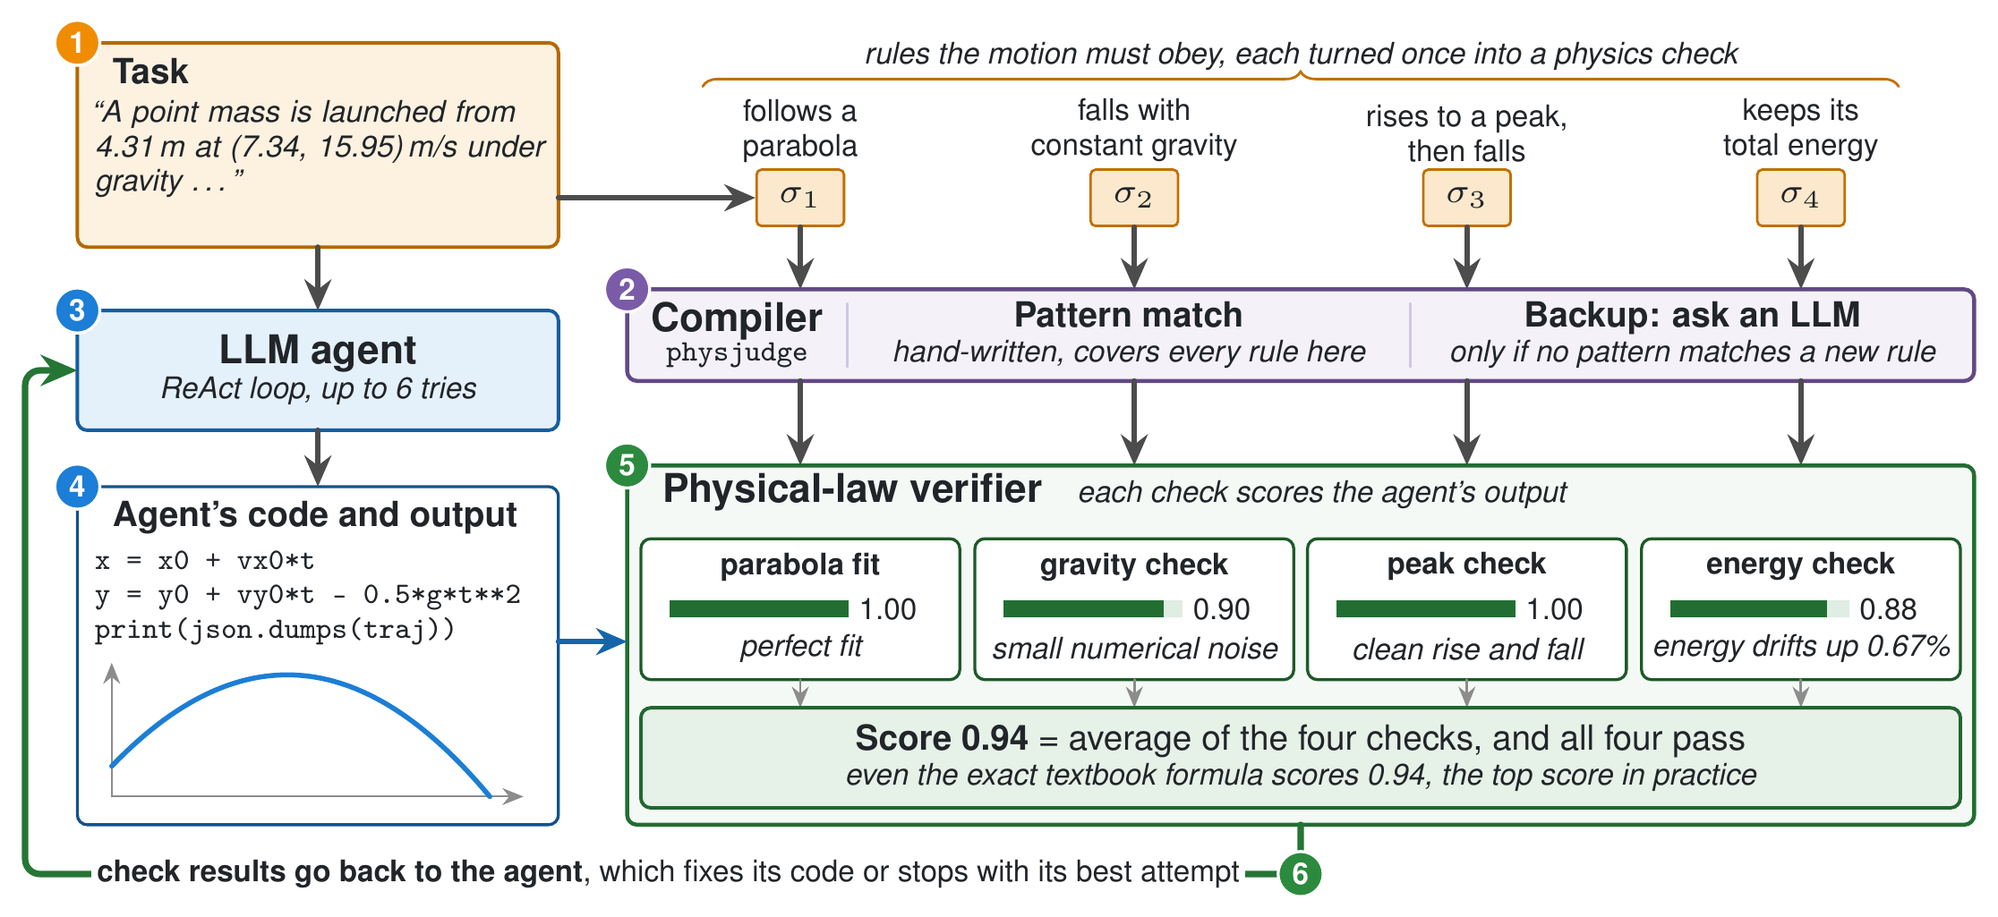
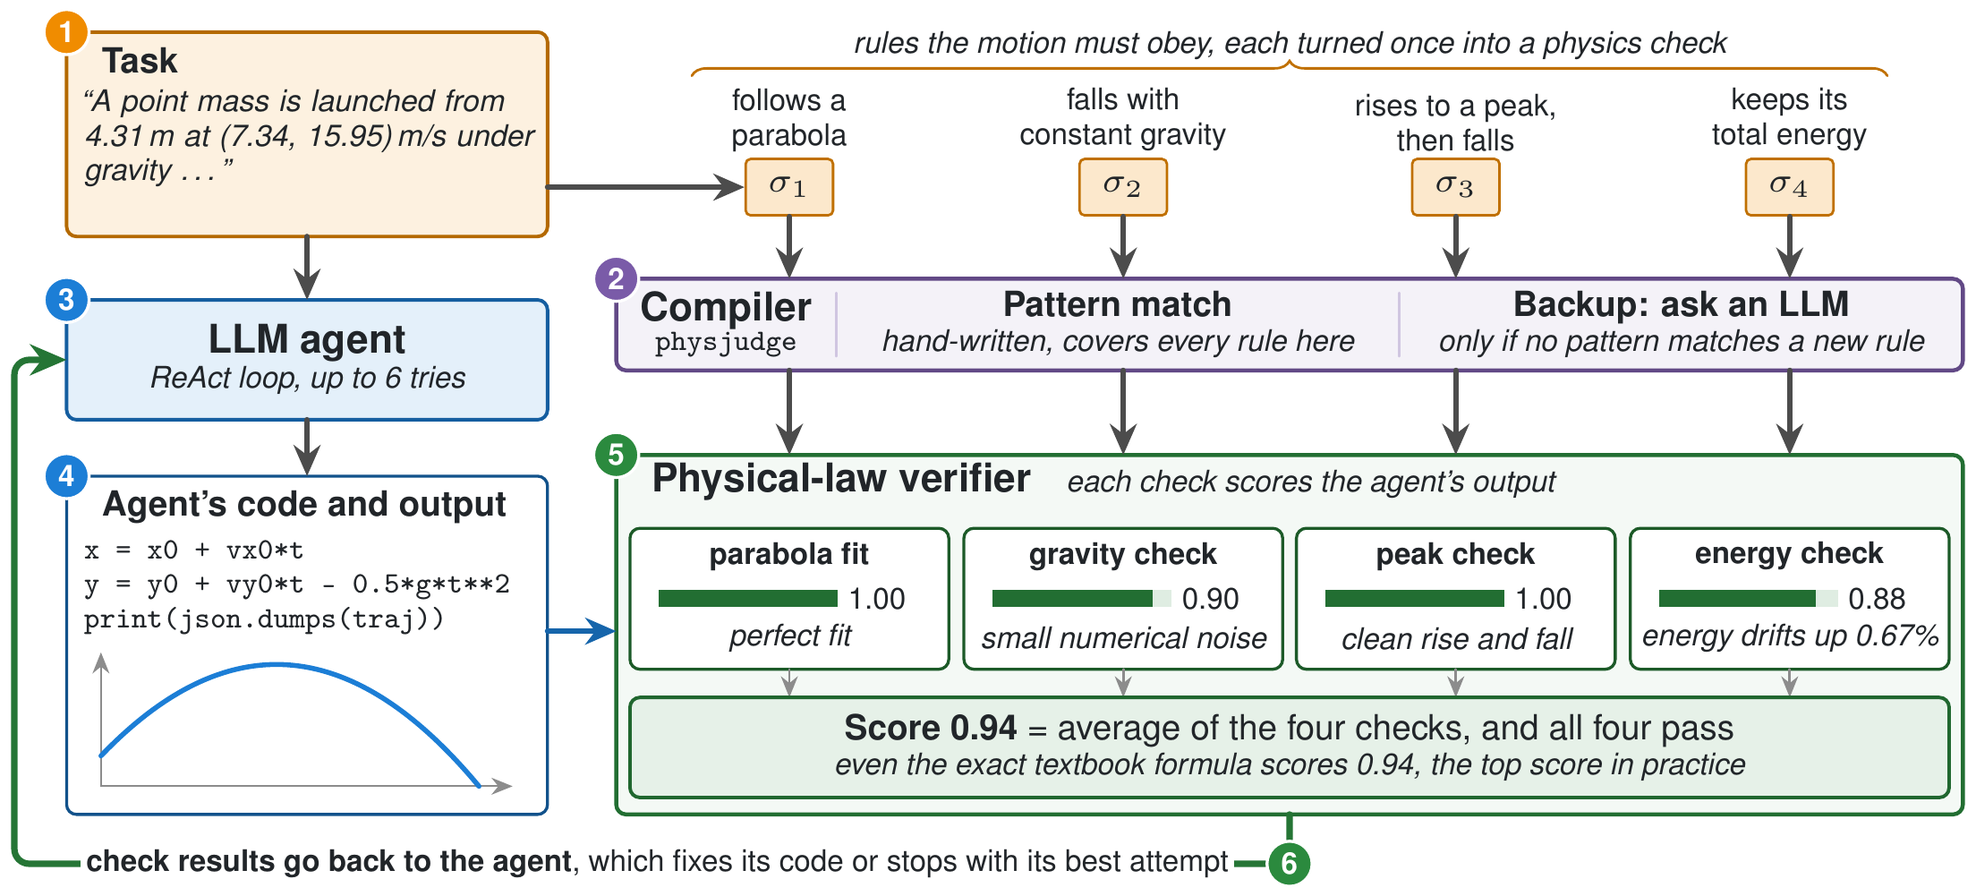
Update page to match camera-ready: title, abstract, figures, captions

Changed region(s): [[0.0, 0.0, 1.0, 0.991], [0.1562, 0.7433, 0.2188, 0.8052], [0.0938, 0.7433, 0.125, 0.7742]]

diff --git a/index.html b/index.html
@@ -3,10 +3,10 @@
 <head>
   <meta charset="utf-8">
   <meta name="viewport" content="width=device-width, initial-scale=1">
-  <title>PhysAgentGym: Free Physical-Law Verifiers</title>
+  <title>PhysAgentGym: Annotation-Free Physical-Law Verifiers</title>
   <meta name="description" content="PhysAgentGym: physical laws score a code-writing agent's trajectory with no answer key. Training Qwen2.5-Coder 7B on 491 verifier-selected rollouts lifts it from 0.668 to 0.942, on par with Claude Sonnet 4.5.">
-  <meta property="og:title" content="PhysAgentGym: Free Physical-Law Verifiers for Training Small Code-Reasoning Agents">
-  <meta property="og:description" content="Physical laws as free rewards for code-writing agents. NeurIPS 2026.">
+  <meta property="og:title" content="PhysAgentGym: Annotation-Free Physical-Law Verifiers for Training Small Code-Reasoning Agents">
+  <meta property="og:description" content="Physical laws as annotation-free verifiers for code-writing agents. NeurIPS 2026.">
   <meta property="og:image" content="./static/images/fig_teaser.png">
   <meta name="twitter:card" content="summary_large_image">
   <link rel="preconnect" href="https://fonts.googleapis.com">
@@ -33,7 +33,7 @@
 <header class="hero" id="top">
   <div class="wrap">
     <p class="venue">NeurIPS 2026</p>
-    <h1 class="title"><span class="grad">PhysAgentGym:</span><br>Free Physical-Law Verifiers for Training Small Code-Reasoning Agents</h1>
+    <h1 class="title"><span class="grad">PhysAgentGym:</span><br>Annotation-Free Physical-Law Verifiers for Training Small Code-Reasoning Agents</h1>
 
     <p class="authors">Lama Moukheiber</p>
     <p class="affil"><img class="affil-logo" src="./static/images/gt_logo.svg" alt="Georgia Institute of Technology"></p>
@@ -47,9 +47,10 @@
     </div>
 
     <figure class="card figure hero-figure wide" style="max-width: 980px">
-      <img src="./static/images/fig_teaser.png" alt="Four panels: a scenario, an LLM agent that writes and runs code, a physical-law verifier that scores the trajectory, and bar charts of small models before and after training.">
-      <figcaption>An LLM agent writes code that simulates a scenario. Physical laws score the resulting trajectory with no answer key,
-        and the best-scoring rollouts fine-tune small models close to the frontier.</figcaption>
+      <img src="./static/images/fig_teaser.png?v=3" alt="Four panels: a scenario, an LLM agent that writes and runs code, a physical-law verifier that scores the trajectory, and bar charts of small models before and after training.">
+      <figcaption>PhysAgentGym verifies with physical laws instead of expert labels, unit tests, or reward models. An LLM agent writes
+        code that simulates a scenario, the laws score its trajectory with no answer key, and fine-tuning on the verified rollouts brings
+        a 7B model to the frontier.</figcaption>
     </figure>
 
     <div class="summary">
@@ -81,15 +82,21 @@
   <div class="wrap narrow">
     <p class="kicker">Abstract</p>
     <div class="abstract">
-      <p>Code-reasoning agents are usually trained with costly verifiers: expert annotation, hand-written unit tests, or learned reward
-        models. We show that where correctness follows closed-form physical laws, the laws themselves provide dense, automatic rewards with
-        no per-task answer key. We build <strong>PhysAgentGym</strong>, a code-execution gym for single-body classical mechanics in which a
-        language model reads a physics scenario, writes Python that simulates it, and is scored by a verifier that turns natural-language
-        standards into checks on the emitted trajectory. Audited against withheld exact solutions, all 281 test episodes that the verifier
-        scored at least 0.9 are physically correct. Fine-tuning Qwen2.5-Coder on 491 rollouts selected by the verifier lifts the 7B model
-        from 0.67 to 0.94, on par with Claude Sonnet 4.5, including on a held-out phenomenon. The
-        1.5B and 3B models rise from near zero to 0.70 and 0.89. Frontier models already reach the highest score the metric gives in
-        practice, so the benchmark's value lies in measuring how small models learn, and reliable training needs at least 3B parameters.</p>
+      <p>Code-reasoning agents trained from rollouts rely on verifiers, such as expert annotation, hand-written unit tests, or learned
+        reward models, each of which needs human effort for every new domain. However, in domains governed by closed-form physical laws,
+        whether the laws themselves can serve as automatic verifiers remains unclear. In this work, we seek to understand whether physical
+        laws can score an agent's simulation without annotation, whether these scores reflect correct physics, and whether they can train
+        small models. We propose <strong>PhysAgentGym</strong>, an agentic code-execution gym for classical mechanics of point masses, in
+        which a language model writes a Python program that simulates a physics scenario and a rule-based verifier compiles
+        natural-language standards into checks on the emitted trajectory. The scores are annotation-free, since physical laws supply the
+        ground truth and neither the agent nor the verifier reads the exact solution. An audit against these withheld solutions shows that
+        every high-scoring test episode of Claude Sonnet 4.5, Claude Opus 4.8, GPT&#8209;5, and our trained 7B model is physically correct.
+        Fine-tuning Qwen2.5-Coder at 1.5B, 3B, and 7B on Claude Sonnet 4.5 rollouts selected by the verifier brings the 7B model
+        statistically on par with Sonnet 4.5 and GPT&#8209;5. It matches Sonnet 4.5 on held-out Circular Motion and comes close on held-out
+        Damping, a phenomenon absent from training. Training is reliable from 3B up, selecting training data by score, not only by whether
+        every check passes, helps the 1.5B model, and frontier models already reach the highest score the verifier gives in practice. On
+        harder composite tasks with drag, orbits, and driven and coupled oscillators, the exact solution earns nearly the full score, the
+        verifier separates correct from wrong physics, and Claude Opus 4.8 scores measurably above Sonnet 4.5.</p>
     </div>
   </div>
 </section>
@@ -102,10 +109,10 @@
       simulates the scenario, and a verifier checks the resulting trajectory against each rule.</p>
 
     <figure class="card figure wide">
-      <img src="./static/images/fig_overview.png" alt="Diagram of one test episode, a thrown point mass: the task and its four rules, the compiler, the agent's code and trajectory, and the four physics checks that score it.">
+      <img src="./static/images/fig_overview.png?v=3" alt="Diagram of one test episode, a thrown point mass: the task and its four rules, the compiler, the agent's code and trajectory, and the four physics checks that score it.">
       <figcaption>How PhysAgentGym scores one real test episode, a thrown point mass. Each rule of the task is turned once into a physics
         check, by a hand-written pattern or, when none matches, by an LLM. The agent's code produces a trajectory that every check scores,
-        and the agent can revise its code using the results. Numbers give the order of the steps.</figcaption>
+        and the agent can revise its code using the results (numbers give the order of the steps).</figcaption>
     </figure>
 
     <div class="steps four">
@@ -124,22 +131,22 @@
       <div class="step-card c-green">
         <div class="step-num">3</div>
         <h3>Verifier</h3>
-        <p>Each rule becomes one of 19 physics checks, such as a parabola fit or an energy check. Each check scores the trajectory from 0 to
-          1. The exact solution stays hidden from the agent and the verifier.</p>
+        <p>Each rule becomes one of 19 physics checks, such as a parabola fit or an energy check, that scores the trajectory from 0 to 1,
+          while the exact solution stays hidden from the agent and the verifier.</p>
       </div>
       <div class="step-card c-purple">
         <div class="step-num">4</div>
         <h3>Training</h3>
-        <p>Claude Sonnet 4.5 rollouts that pass every check with a mean score of at least 0.85 give 491 conversations. QLoRA fine-tunes
-          Qwen2.5-Coder on them in 11 to 25 minutes on one GPU.</p>
+        <p>Claude Sonnet 4.5 rollouts that pass every check with a mean score of at least 0.85 give 491 conversations, on which QLoRA
+          fine-tunes Qwen2.5-Coder at 1.5B, 3B, and 7B.</p>
       </div>
     </div>
 
     <div class="chips">
-      <span class="chip"><i class="fas fa-atom"></i>Single-body classical mechanics</span>
+      <span class="chip"><i class="fas fa-atom"></i>Classical mechanics of point masses</span>
       <span class="chip"><i class="fas fa-layer-group"></i>1,320 generated tasks</span>
-      <span class="chip"><i class="fas fa-shapes"></i>4 subcategories, 10 regimes</span>
-      <span class="chip"><i class="fas fa-file-lines"></i>30 rule templates</span>
+      <span class="chip"><i class="fas fa-shapes"></i>4 subcategories, 10 types of motion</span>
+      <span class="chip"><i class="fas fa-file-lines"></i>30 distinct standards</span>
       <span class="chip"><i class="fas fa-key"></i>No answer key at scoring time</span>
     </div>
   </div>
@@ -148,16 +155,15 @@
 <section class="section" id="results">
   <div class="wrap">
     <p class="kicker center">Results</p>
-    <h2 class="center">Small models learn from the verifier alone</h2>
+    <h2 class="center">Small models learn from the verifier&#8217;s signal</h2>
     <p class="lead center narrow-text">Untrained Qwen2.5-Coder scores 0.000, 0.011 and 0.668 at 1.5B, 3B and 7B. After training on the 491
       verifier-selected rollouts it scores 0.702, 0.888 and 0.942. The 7B model is statistically on par with Claude Sonnet 4.5, and gains
       48.7 points on Damping, a phenomenon absent from training.</p>
 
     <div class="card tables" style="padding: 18px 22px">
       <h3>Mean verifier score on the 120 test tasks</h3>
-      <p class="fine" style="margin-top:0">30 tasks per subcategory, failures scored 0, 95% bootstrap interval on the aggregate. Circular
-        Motion is near out of distribution and Damping is far out of distribution. Green rows are the main runs.
-        <sup>†</sup>Run through a headless CLI harness, the other frontier rows use the provider API.</p>
+      <p class="fine" style="margin-top:0">30 tasks per subcategory, episodes with no parseable action scored 0, 95% bootstrap interval on
+        the aggregate. Circular Motion is near out of distribution and Damping is far out of distribution. Green rows are the main runs.</p>
       <div class="table-wrapper"><table class="results-table">
 <thead>
 <tr><th>Model</th><th>PE-KE</th><th>Linear</th><th>Circular</th><th>Damping</th><th>Aggregate [95% CI]</th></tr>
@@ -167,7 +173,7 @@
 <tr><td>Claude Sonnet 4.5</td><td>0.959</td><td>0.971</td><td>0.911</td><td>0.935</td><td>0.944 [0.930, 0.957]</td></tr>
 <tr><td>GPT-5</td><td>0.959</td><td>0.970</td><td>0.885</td><td>0.935</td><td>0.937 [0.916, 0.955]</td></tr>
 <tr><td>GPT-5, high reasoning</td><td>0.959</td><td>0.970</td><td>0.911</td><td>0.935</td><td>0.944 [0.931, 0.957]</td></tr>
-<tr><td>Claude Opus 4.8<sup>†</sup></td><td>0.959</td><td>0.970</td><td>0.911</td><td>0.935</td><td>0.944 [0.931, 0.957]</td></tr>
+<tr><td>Claude Opus 4.8</td><td>0.959</td><td>0.970</td><td>0.911</td><td>0.935</td><td>0.944 [0.931, 0.957]</td></tr>
 <tr class="group-row"><td colspan="6">Qwen2.5-Coder-Instruct, zero-shot</td></tr>
 <tr><td>1.5B</td><td>0.000</td><td>0.000</td><td>0.000</td><td>0.000</td><td>0.000 [0.000, 0.000]</td></tr>
 <tr><td>3B</td><td>0.000</td><td>0.000</td><td>0.045</td><td>0.000</td><td>0.011 [0.000, 0.028]</td></tr>
@@ -179,7 +185,7 @@
 <tr><td>3B, pass-only filter</td><td>0.915</td><td>0.971</td><td>0.881</td><td>0.750</td><td>0.879 [0.842, 0.912]</td></tr>
 <tr><td>7B, seed 1</td><td>0.930</td><td>0.971</td><td>0.919</td><td>0.935</td><td>0.939 [0.924, 0.953]</td></tr>
 <tr><td>7B, pass-only filter</td><td>0.945</td><td>0.971</td><td>0.911</td><td>0.935</td><td>0.941 [0.926, 0.954]</td></tr>
-<tr class="group-row"><td colspan="6">Qwen2.5-Coder-Instruct trained on verifier-approved rollouts, main runs (ours)</td></tr>
+<tr class="group-row"><td colspan="6">Qwen2.5-Coder-Instruct trained on verifier-selected rollouts, main runs (ours)</td></tr>
 <tr class="ours-row"><td>1.5B</td><td>0.928</td><td>0.871</td><td>0.814</td><td>0.197</td><td><strong>0.702</strong> [0.629, 0.778]</td></tr>
 <tr class="ours-row"><td>3B</td><td>0.902</td><td>0.971</td><td>0.911</td><td>0.769</td><td><strong>0.888</strong> [0.858, 0.916]</td></tr>
 <tr class="ours-row"><td>7B</td><td>0.959</td><td>0.971</td><td>0.911</td><td>0.927</td><td><strong>0.942</strong> [0.928, 0.956]</td></tr>
@@ -188,22 +194,22 @@
     </div>
 
     <figure class="card figure wide">
-      <img src="./static/images/fig_scale.png" alt="Three charts: (a) mean score by model size per subcategory, zero-shot and trained, against the frontier line, (b) verifier score of every audited test episode, split into physically correct and wrong, (c) gain from the stricter training-data filter at 1.5B, 3B and 7B.">
+      <img src="./static/images/fig_scale.png?v=3" alt="Three charts: (a) mean score by model size per subcategory, zero-shot and trained, against the frontier line, (b) verifier score of every audited test episode, split into physically correct and wrong, (c) gain from the stricter training-data filter at 1.5B, 3B and 7B.">
       <figcaption><strong>(a)</strong> Mean score by model size on each subcategory with 95% bootstrap intervals. The dashed line is the
         mean of the four frontier models, and the blue number is the 7B gain over zero-shot in points. <strong>(b)</strong> Verifier score
-        for every test episode of Claude Sonnet 4.5, GPT-5 and our 7B model, 359 in all, split by whether the trajectory is within 5% of the
-        exact solution. <strong>(c)</strong> Aggregate gain from a stricter training-data filter, which keeps rollouts that pass every check
-        and score at least 0.85, over keeping every rollout that passes all checks.</figcaption>
+        of every test episode of Claude Sonnet 4.5, GPT-5, and our 7B model (359 episodes), split by whether the trajectory is within 5% of
+        the exact solution. <strong>(c)</strong> Aggregate gain from the combined training-data filter over the pass-only
+        filter.</figcaption>
     </figure>
 
     <div class="grid3">
-      <div class="mini-card"><h3>A tie with the teacher</h3><p>On the same 120 tasks the 7B model's scores differ from Sonnet's by 0.002 on
-        average, and an equivalence test shows the two agree to within 0.01. The 7B model learns from Sonnet's own rollouts, so a tie is
-        the expected best.</p></div>
-      <div class="mini-card"><h3>3B is the reliable floor</h3><p>Below 3B, models often stop producing valid actions on held-out tasks and
-        training seeds disagree. The two 3B seeds agree to 0.7 points, and from 3B up training is stable across seeds.</p></div>
-      <div class="mini-card"><h3>The score picks better data</h3><p>Keeping only rollouts that also score at least 0.85 beats keeping every
-        rollout that passes, at every size: 12.7, 0.9 and 0.1 points at 1.5B, 3B and 7B.</p></div>
+      <div class="mini-card"><h3>The 7B model ties with Sonnet 4.5</h3><p>On the same 120 tasks the 7B model's scores differ from
+        Sonnet's by 0.002 on average, and an equivalence test shows the two agree to within 0.01.</p></div>
+      <div class="mini-card"><h3>Training is reliable from 3B up</h3><p>At 1.5B the two training seeds differ by 3.6 points, mostly on
+        Damping, where the 1.5B models produce a parseable action in only 3 to 20 of 30 episodes, whereas the two 3B seeds differ by 0.7
+        points.</p></div>
+      <div class="mini-card"><h3>Choosing data by score helps at 1.5B</h3><p>Keeping only rollouts that also score at least 0.85 adds 12.7
+        points at 1.5B, while the gains at 3B and 7B, 0.9 and 0.1 points, are not statistically significant.</p></div>
     </div>
   </div>
 </section>
@@ -211,11 +217,11 @@
 <section class="section alt" id="audit">
   <div class="wrap">
     <p class="kicker center">Verifier audit</p>
-    <h2 class="center">Every high score is a correct trajectory</h2>
-    <p class="lead center narrow-text">Two frontier models agreeing shows the verifier is consistent, not that it is correct. So we checked it
-      against the exact solutions, which neither the agent nor the verifier sees. We re-ran the best code of all 360 test episodes of Claude
-      Sonnet 4.5, GPT-5 and our 7B model, and called a trajectory correct if its error is below 5%. One GPT-5 episode had no runnable code,
-      which leaves 359.</p>
+    <h2 class="center">Every audited high score is a correct trajectory</h2>
+    <p class="lead center narrow-text">Two frontier models agreeing shows the verifier is consistent, not that it is correct, so we checked
+      it against the exact solutions, which neither the agent nor the verifier sees. For the 359 test episodes of Claude Sonnet 4.5, GPT-5,
+      and our 7B model that contain a parseable action, we re-ran the best-scoring code and called a trajectory physically correct if its
+      error is below 5% and it covers at least 95% of the solution's duration.</p>
 
     <div class="audit">
       <div class="mini-card c-green">
@@ -230,16 +236,16 @@
       </div>
       <div class="mini-card c-orange">
         <p class="big">51 of 51</p>
-        <h3>Errors only run one way</h3>
+        <h3>Low scores do not always mean wrong physics</h3>
         <p>All 51 frontier episodes scoring below 0.9 are still correct. Of the 27 such 7B episodes, 7 are wrong, and all 7 score below 0.9.</p>
       </div>
     </div>
 
     <div class="callout green narrow-text">
       <i class="fas fa-circle-info"></i>
-      <p>When the verifier errs, it gives too little credit, not too much. The low scores on correct trajectories come mostly from the
-        smoothness rule, which marks down Ferris-wheel and constant-acceleration motion, and from the damping rules. These tolerances cap
-        scores near 0.94 and are the first part of the verifier to improve.</p>
+      <p>The low scores on correct trajectories come mostly from the smoothness rule, which marks down Ferris-wheel and
+        constant-acceleration motion, and from the damping rules, so these tolerances, not the agents, cap scores near 0.94. Beyond the
+        audited models, 21 of the 794 high-scoring trajectories of the other trained runs (under 3%) differ from the exact solution.</p>
     </div>
   </div>
 </section>
@@ -256,7 +262,7 @@
     <div class="card tables" style="padding: 18px 22px">
       <div class="table-wrapper"><table class="results-table">
 <thead>
-<tr><th rowspan="2">Subcategory</th><th colspan="3">Verifier score on known answers</th><th colspan="2">Frontier models<sup>†</sup></th></tr>
+<tr><th rowspan="2">Subcategory</th><th colspan="3">Verifier score on known answers</th><th colspan="2">Frontier models</th></tr>
 <tr><th>Exact solution</th><th>Numerical solver</th><th>Wrong physics</th><th>Sonnet 4.5</th><th>Opus 4.8</th></tr>
 </thead>
 <tbody>
@@ -268,17 +274,17 @@
 </tbody>
 </table></div>
       <p class="fine">30 test tasks each. The numerical solver is SciPy's standard solver at default settings, with its largest error in
-        brackets. Wrong-physics answers drop or distort one term. <sup>†</sup>Both run through the CLI harness, so Sonnet here is not
-        directly comparable to the main table.</p>
+        brackets. Wrong-physics answers drop or distort one term.</p>
     </div>
 
     <div class="grid3">
-      <div class="mini-card"><h3>A perfect answer earns nearly full marks</h3><p>The exact solution scores 0.989 to 0.998, against about
-        0.94 on the original four subcategories.</p></div>
-      <div class="mini-card"><h3>Wrong physics is caught</h3><p>Every deliberately wrong solution tested, such as ignoring drag or using a
-        crude integrator, scores 0.75 or less.</p></div>
-      <div class="mini-card"><h3>Frontier models solve them too</h3><p>Sonnet 4.5 scores 0.990 and Opus 4.8 scores 0.995. All 240
-        submissions are physically correct and score at least 0.9. Opus leads by 0.005 in a paired bootstrap.</p></div>
+      <div class="mini-card"><h3>A correct answer earns nearly the full score</h3><p>The exact solution scores 0.989 to 0.998, against
+        about 0.94 on the original four subcategories.</p></div>
+      <div class="mini-card"><h3>Wrong physics scores low</h3><p>Every wrong solution we constructed, such as one that ignores drag or uses
+        a crude integrator, scores 0.76 or less.</p></div>
+      <div class="mini-card"><h3>Frontier models solve them too</h3><p>Sonnet 4.5 scores 0.990 and Opus 4.8 scores 0.995, and all 240
+        submissions are physically correct and score at least 0.9. Opus leads by 0.005 in a paired bootstrap, a measurable gap, while the
+        two tie on the main tasks.</p></div>
     </div>
   </div>
 </section>
@@ -286,13 +292,14 @@
 <section class="section alt" id="takeaways">
   <div class="wrap narrow">
     <p class="kicker">Takeaways</p>
-    <h2>Physical laws are a free source of rewards</h2>
+    <h2>Physical laws are a free source of verification</h2>
     <ul class="takeaways">
       <li><strong>The signal works on its own.</strong> It lifts the base models by 70, 88 and 27 points with no human labels, unit tests or
         reward model.</li>
       <li><strong>It transfers.</strong> The 7B model gains 48.7 points on Damping, a phenomenon absent from training.</li>
-      <li><strong>Scope.</strong> The tasks cover single-body classical mechanics, a small part of physics. The method fits wherever each
-        rule is an exact, computable property of the trajectory, and leaves out chaotic, contact-rich, random and turbulent systems.</li>
+      <li><strong>Scope.</strong> The tasks cover classical mechanics of one or two point masses, a small part of physics. The method fits
+        wherever each rule is an exact, computable property of the trajectory, and leaves out chaotic, contact-rich, random and turbulent
+        systems.</li>
     </ul>
   </div>
 </section>
@@ -303,8 +310,8 @@
     <div class="bib">
       <button class="copy" id="copy-bib" type="button"><i class="far fa-copy"></i><span>Copy</span></button>
 <pre id="bibtex">@inproceedings{moukheiber2026physagentgym,
-  title     = {PhysAgentGym: Free Physical-Law Verifiers for Training
-               Small Code-Reasoning Agents},
+  title     = {PhysAgentGym: Annotation-Free Physical-Law Verifiers for
+               Training Small Code-Reasoning Agents},
   author    = {Moukheiber, Lama},
   booktitle = {Advances in Neural Information Processing Systems},
   year      = {2026}
